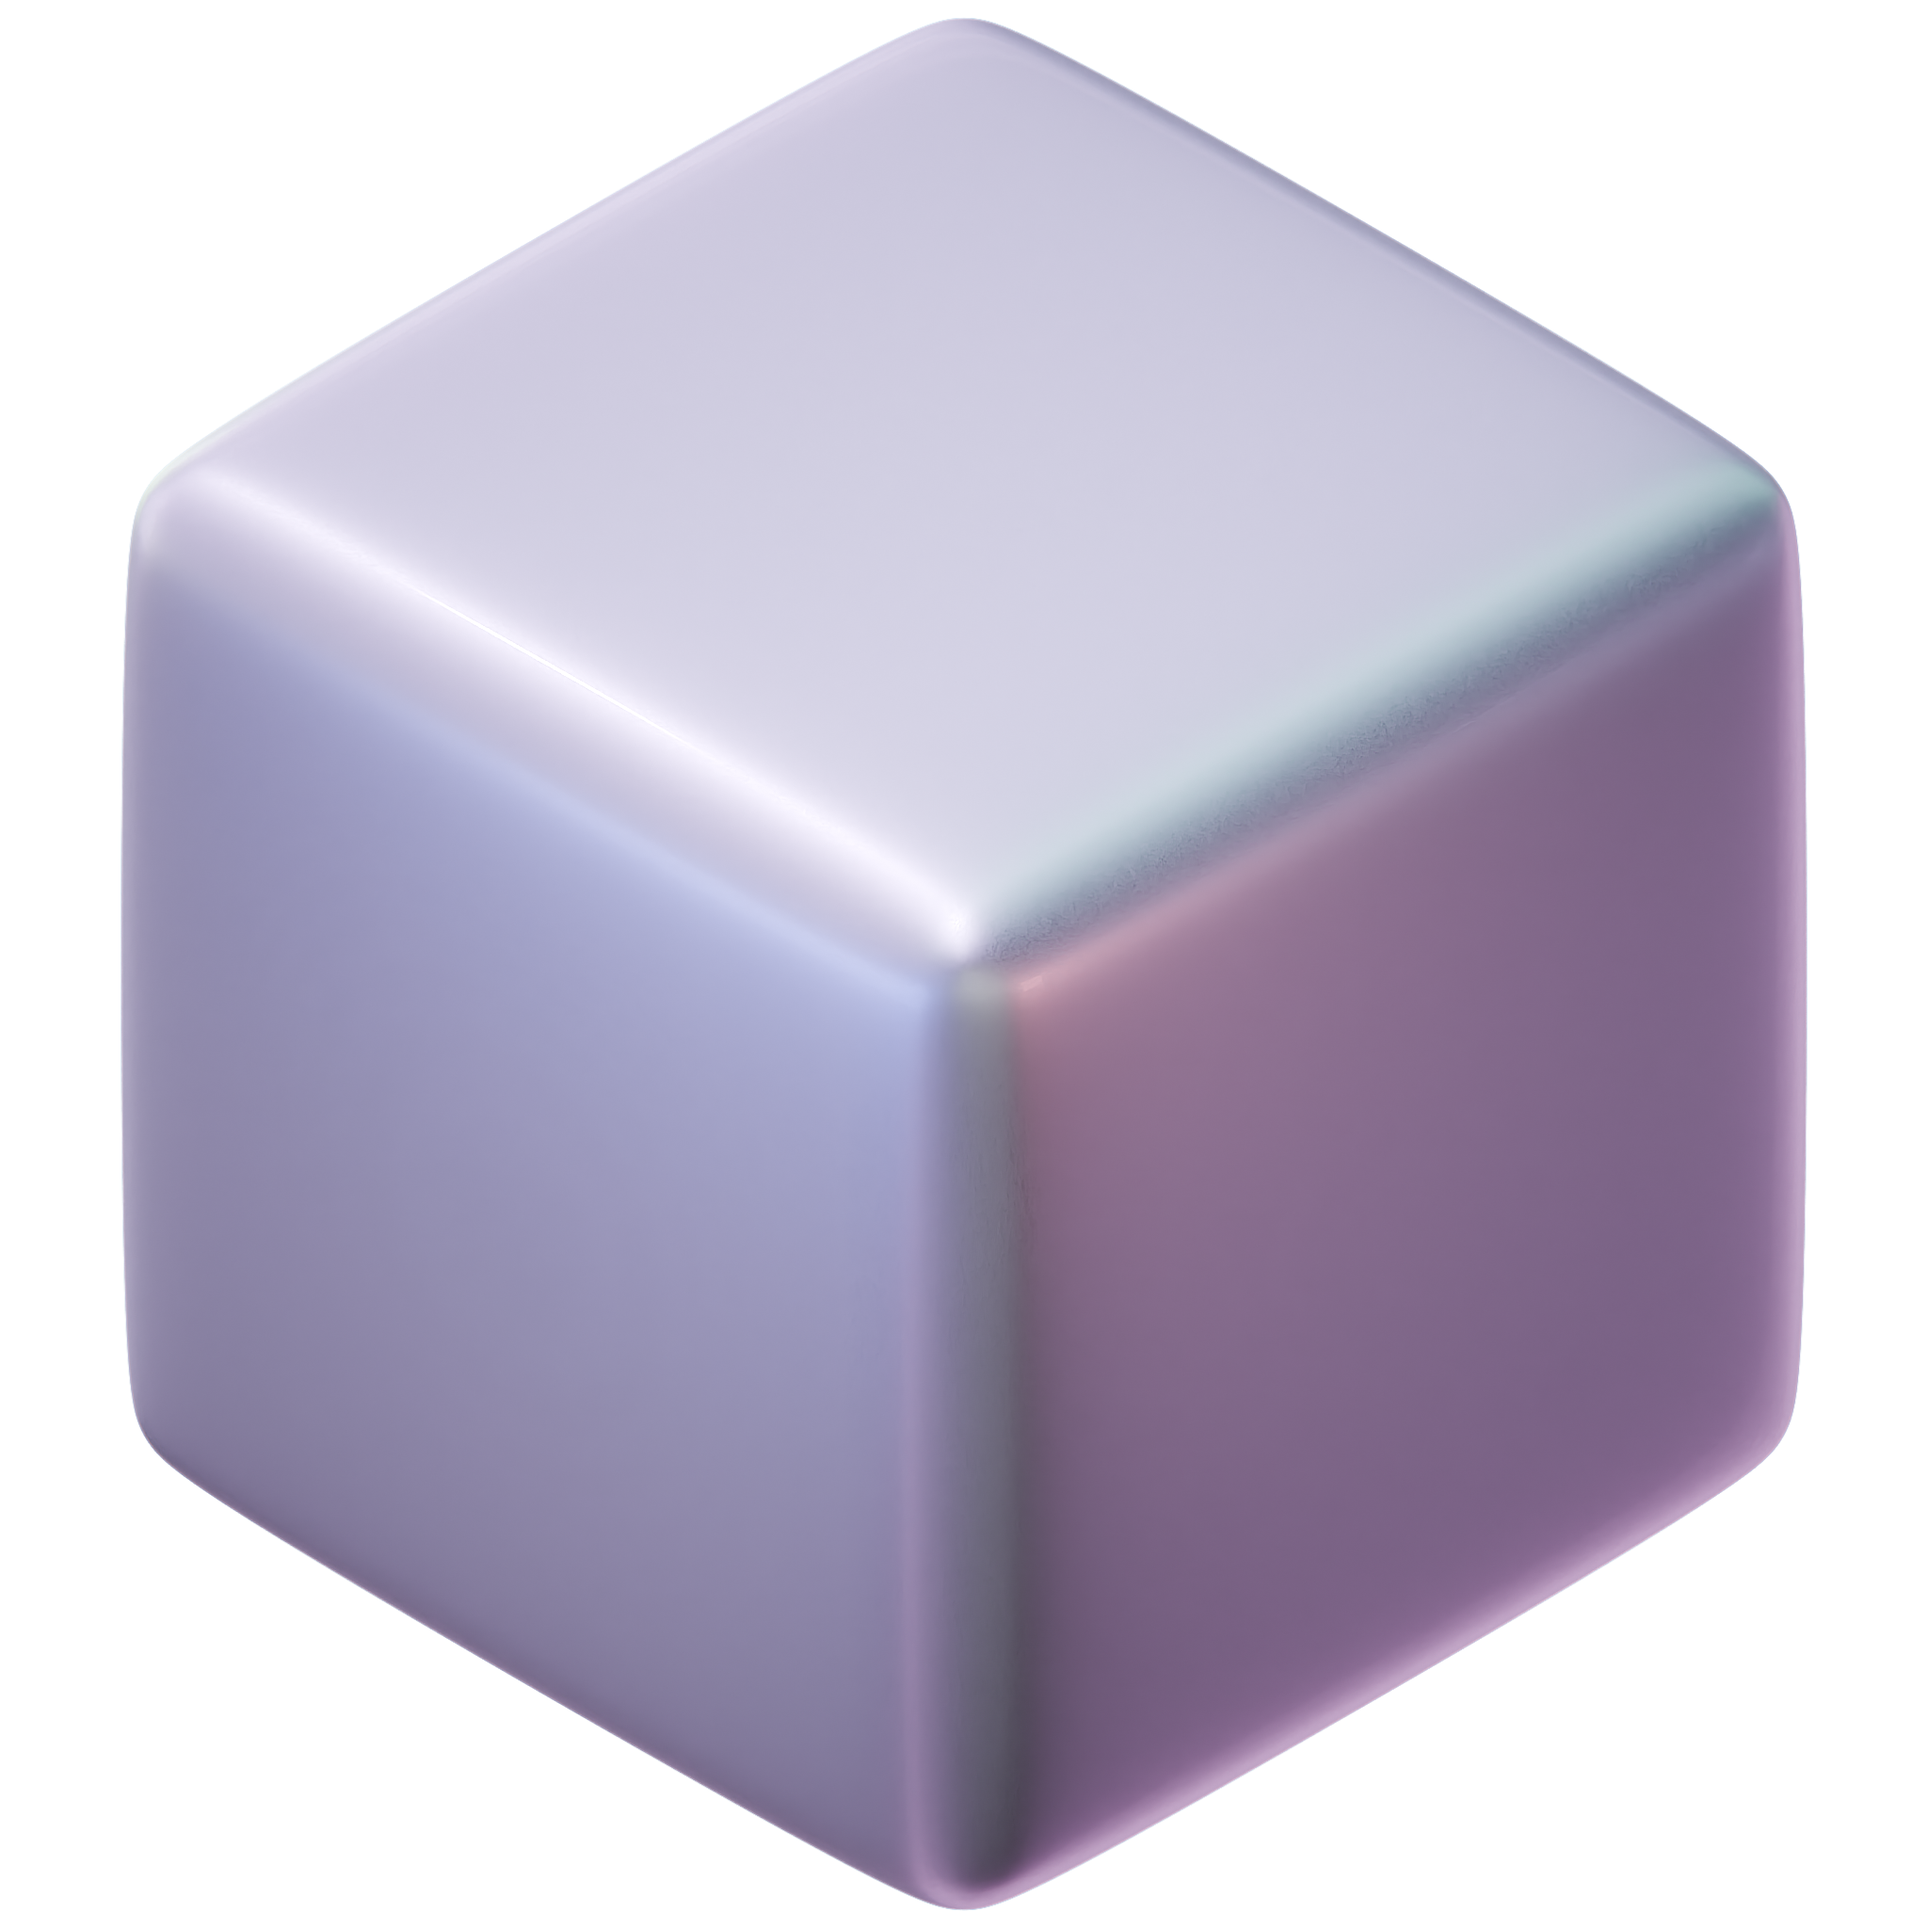
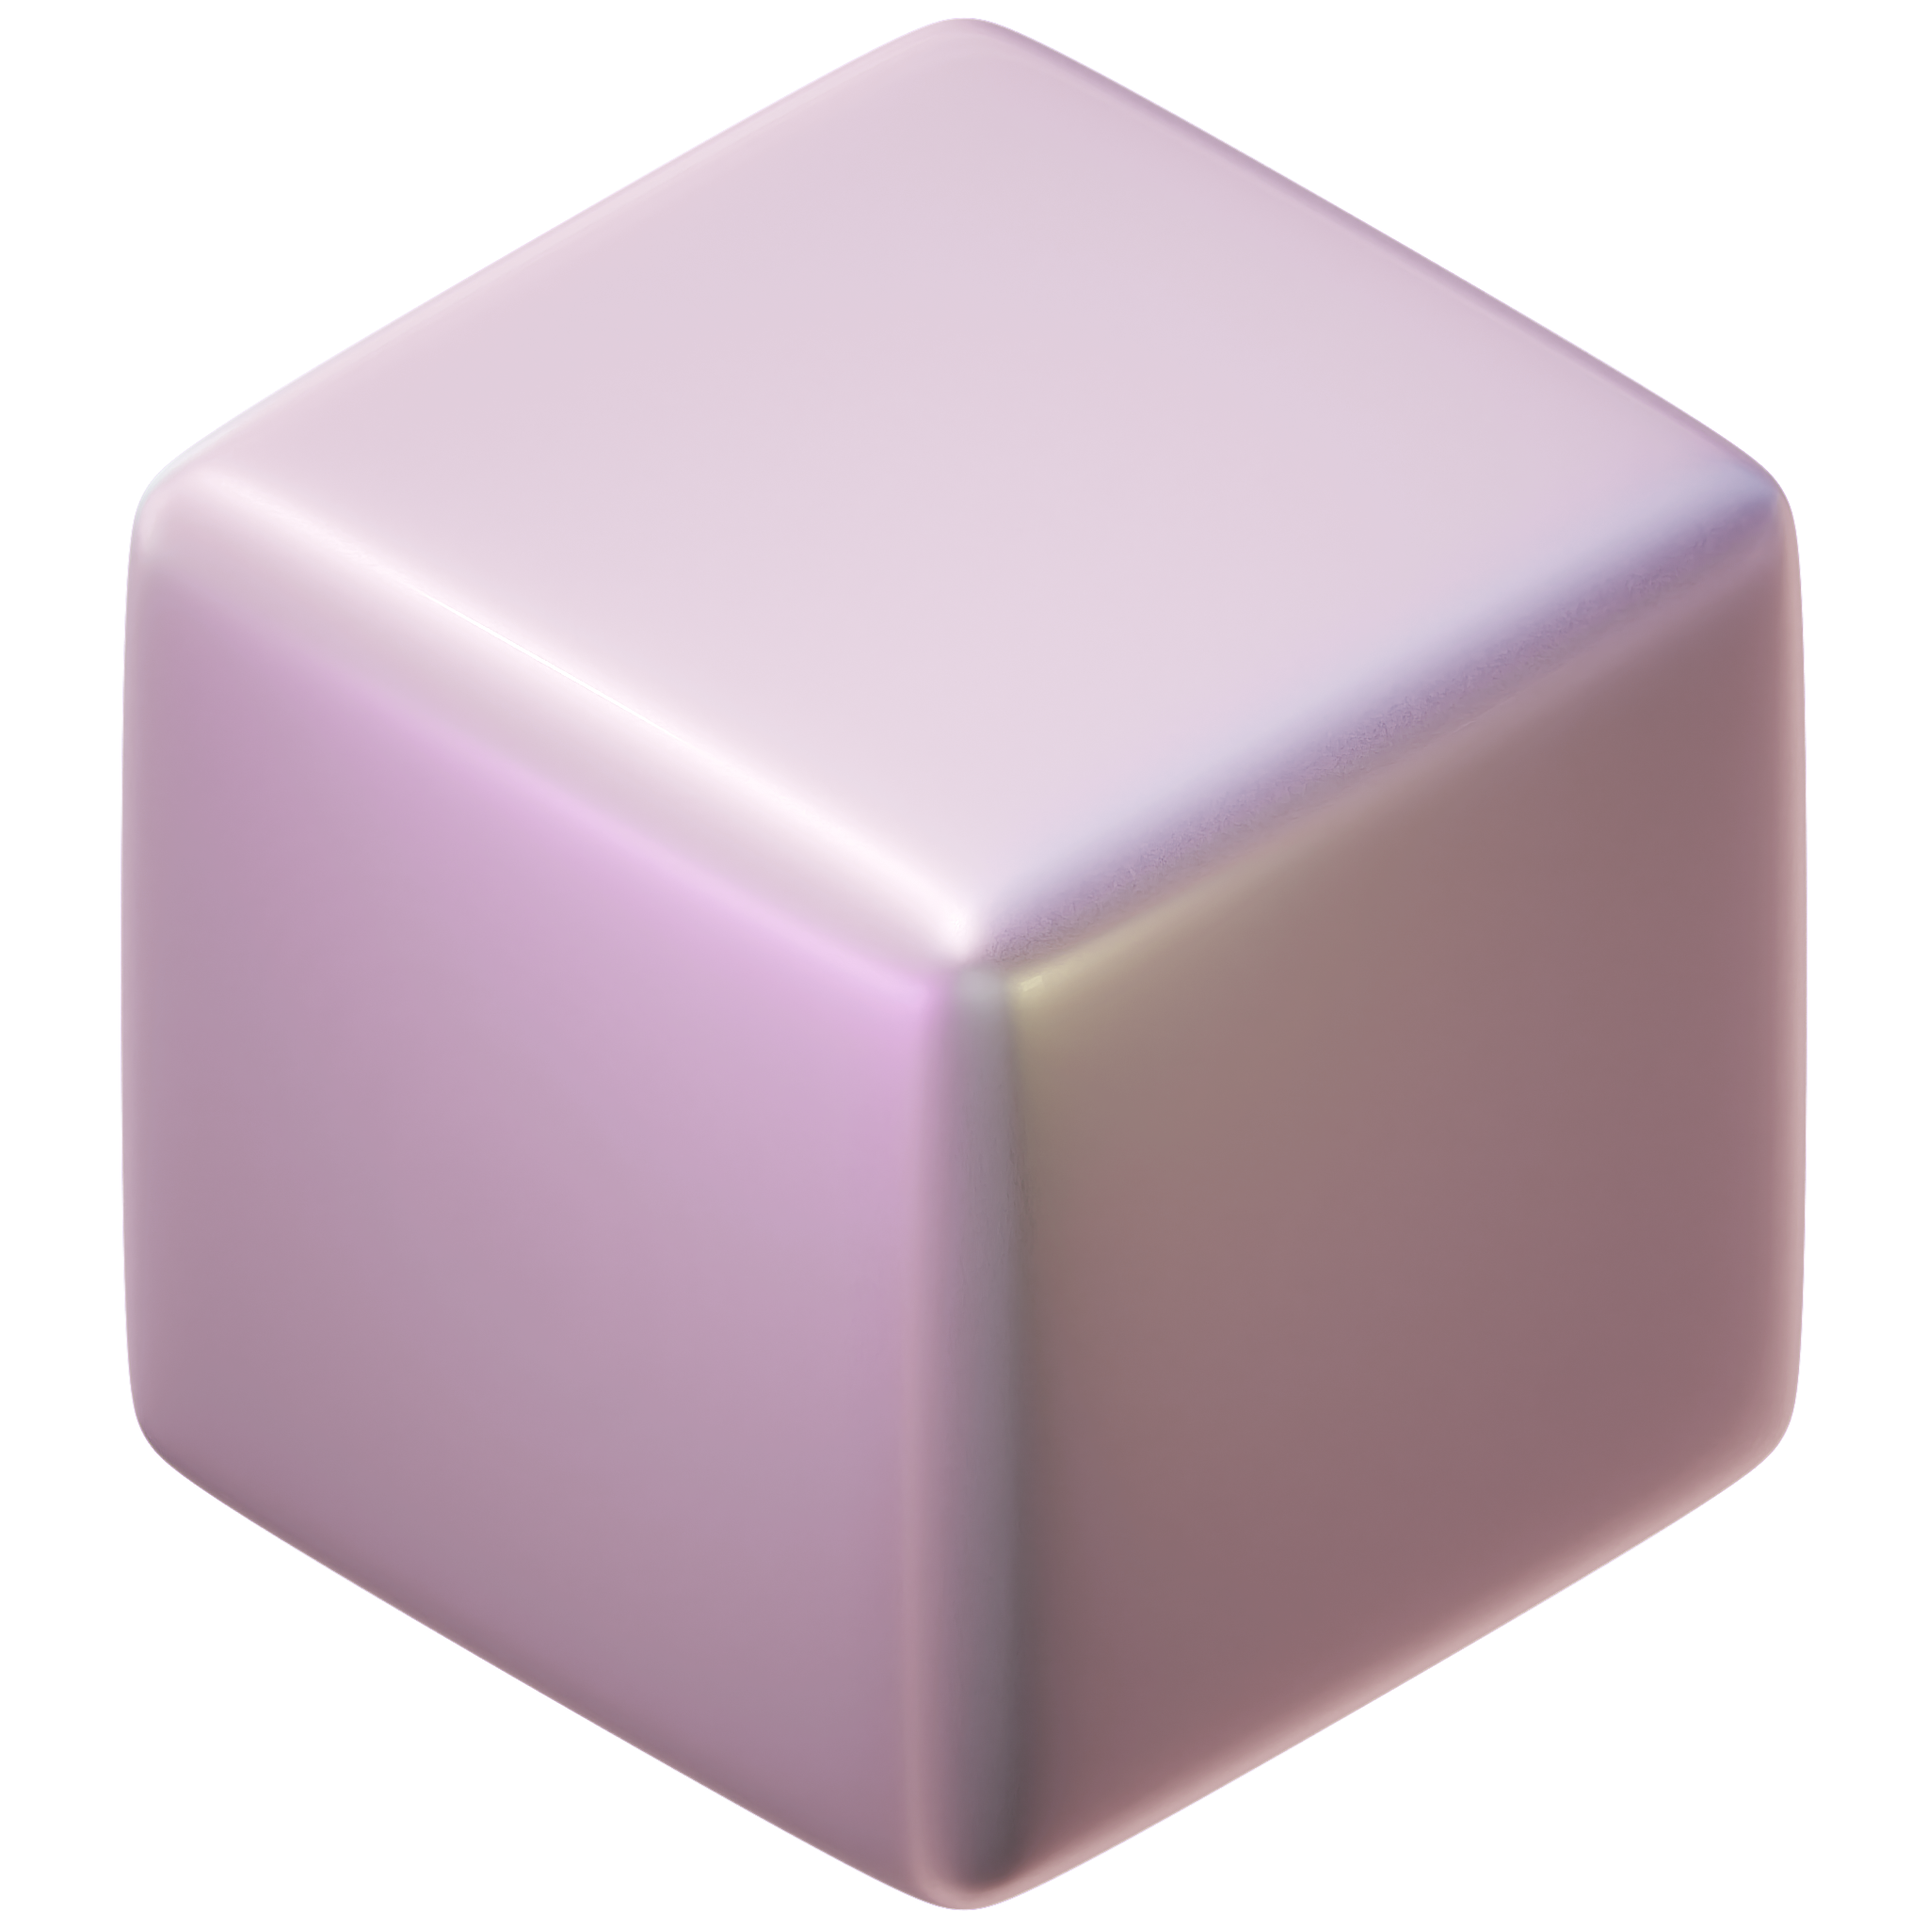
Change levitate images

diff --git a/src/app/page.tsx b/src/app/page.tsx
@@ -33,16 +33,16 @@ export default function Home() {
           </div>
           <div className="relative grid grid-cols-2 gap-2 sm:gap-6 border rounded-3xl border-none order-first lg:order-none">
             <div className="top-[60px] sm:top-[100px]" style={{ gridArea: "1 / 1 / 2 / 2", animation: "levitate 16s ease infinite", position: "relative" }}>
-              <Image src="/octogonlight1.png" className="hidden dark:block drop-shadow-2xl sm:w-[140px] lg:w-[240px] " alt="printer" width={130} height={130} />
-              <Image src="/octogondark.png" className="block dark:hidden drop-shadow-2xl sm:w-[140px] lg:w-[240px]" alt="printer" width={130} height={130} />
+              <Image src="/espherelight.png" className="hidden dark:block drop-shadow-2xl sm:w-[140px] lg:w-[240px] " alt="printer" width={130} height={130} />
+              <Image src="/espheredark.png" className="block dark:hidden drop-shadow-2xl sm:w-[140px] lg:w-[240px]" alt="printer" width={130} height={130} />
             </div>
             <div style={{ gridArea: "2 / 2 / 3 / 3", animation: "levitate 12s ease 1s infinite" }}>
-              <Image src="/circlelight1.png" className="hidden dark:block drop-shadow-2xl sm:w-[140px] lg:w-[240px]" alt="printer" width={130} height={130} />
-              <Image src="/circledark.png" className="block dark:hidden drop-shadow-2xl sm:w-[140px] lg:w-[240px]" alt="printer" width={130} height={130} />
+              <Image src="/rectlight.png" className="hidden dark:block drop-shadow-2xl sm:w-[140px] lg:w-[240px]" alt="printer" width={130} height={130} />
+              <Image src="/rectdark.png" className="block dark:hidden drop-shadow-2xl sm:w-[140px] lg:w-[240px]" alt="printer" width={130} height={130} />
             </div>
             <div style={{ gridArea: "1 / 2 / 3 / 3", animation: "levitate 14s ease 1s infinite", marginTop: "-20px" }}>
-              <Image src="/rectlight1.png" className="hidden dark:block drop-shadow-2xl sm:w-[140px] lg:w-[240px]" alt="printer" width={130} height={130} />
-              <Image src="/rectdark.png" className="block dark:hidden drop-shadow-2xl sm:w-[140px] lg:w-[240px]" alt="printer" width={130} height={130} />
+              <Image src="/octogonlight.png" className="hidden dark:block drop-shadow-2xl sm:w-[140px] lg:w-[240px]" alt="printer" width={130} height={130} />
+              <Image src="/octogondark.png" className="block dark:hidden drop-shadow-2xl sm:w-[140px] lg:w-[240px]" alt="printer" width={130} height={130} />
             </div>
     </div>
 
